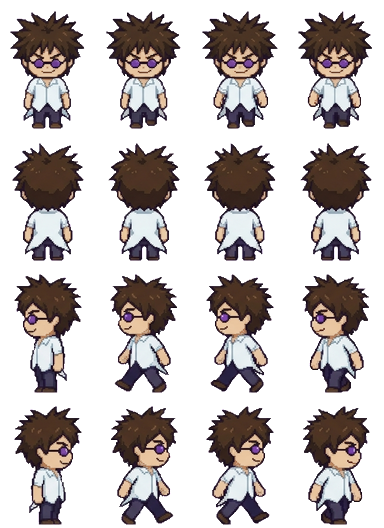
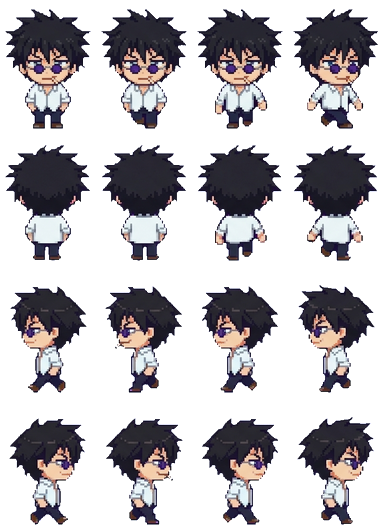
Redraw Midou Ban in the shared art style
Claude-Session: https://claude.ai/code/session_01KaPsBYLrtbRfMYNG2xeBCK

diff --git a/docs/app.js b/docs/app.js
@@ -75,7 +75,7 @@ function spr(cat, k, col, sc) {
   return `<div class="clip" style="width:${it[2] * sc}px;height:${it[3] * sc}px;POS"><img class="px" src="assets/decor/${cat}.png" alt="" style="width:${S.sw * sc}px;height:${S.sh * sc}px;margin-left:${-col * S.cw * sc}px;margin-top:${-i * S.ch * sc}px"></div>`;
 }
 const icon = (k, sz) => `<span class="itm" style="width:${sz}px;height:${sz}px"><img class="px" src="assets/ui/items.png" alt="" style="width:${IT.length * sz}px;height:${sz}px;margin-left:${-ITM[k].i * sz}px"></span>`;
-const face = (id, w) => { const s = w / 96; return `<img class="px" src="assets/ch/${id}.webp?v=50" alt="" style="position:absolute;width:${384 * s}px;height:${528 * s}px;left:${-(96 * s - w) / 2}px;top:0;max-width:none">`; };
+const face = (id, w) => { const s = w / 96; return `<img class="px" src="assets/ch/${id}.webp?v=51" alt="" style="position:absolute;width:${384 * s}px;height:${528 * s}px;left:${-(96 * s - w) / 2}px;top:0;max-width:none">`; };
 
 // ---------- 저장 ----------
 let fb = null, user = null, S = null, saveT = null;
@@ -143,7 +143,7 @@ function sleepHTML(id, r, dy) {
   const pos = r.a && r.a[0] === 'bed' ? 'left:3%;bottom:20%' : r.b && r.b[0] === 'bed' ? 'right:3%;bottom:20%' : 'left:calc(50% - 44px);bottom:6%';
   const s = 36 / 96;
   return `<div style="position:absolute;width:88px;height:56px;${pos};z-index:${dy ? 4 : 5};${dy ? `transform:translate(12px,${dy}px)` : ''}"><div style="position:absolute;inset:0;filter:brightness(.22)">
-    <div style="position:absolute;left:11px;top:1px;width:36px;height:50px;overflow:hidden;transform:rotate(-90deg)"><img class="px" src="assets/ch/${id}.webp?v=50" alt="" style="width:${384 * s}px;height:${528 * s}px;max-width:none;margin-top:${-132 * s}px"></div>
+    <div style="position:absolute;left:11px;top:1px;width:36px;height:50px;overflow:hidden;transform:rotate(-90deg)"><img class="px" src="assets/ch/${id}.webp?v=51" alt="" style="width:${384 * s}px;height:${528 * s}px;max-width:none;margin-top:${-132 * s}px"></div>
     <div style="position:absolute;left:19px;top:19px;width:67px;height:29px;border:2px solid var(--ink);border-radius:8px 6px 4px 4px;background:#8ccff5;background-image:repeating-linear-gradient(90deg,transparent 0 10px,rgba(255,255,255,.5) 10px 13px)"></div></div>
     ${dy ? '' : '<span class="emo" style="left:8px;top:-22px;color:#5b6bd6">Z z z</span>'}</div>`;
 }
@@ -153,8 +153,8 @@ function roomHTML(id, o, scale) {
     <div class="floor" style="background-color:${PAL[r.fc][1]};background-image:${tileUrl('floor', r.fl)}"></div>
     ${slot('deco', r.dc, 'left:6%;top:6%')}${slot('furn', r.a, 'left:3%;bottom:20%')}${slot('furn', r.b, 'right:3%;bottom:20%')}${slot('prop', r.pr, 'left:28%;bottom:4%;z-index:2')}
     ${id && o.sleeping && g ? sleepHTML(g, r, -16) : ''}${id && o.sleeping ? sleepHTML(id, r) : ''}${id && o.job ? `<div style="position:absolute;left:50%;top:38%;transform:translateX(-50%);z-index:5;background:#fff;border:3px solid var(--ink);border-radius:10px;padding:6px 10px;font-size:11px;text-align:center;line-height:1.5"><img src="assets/ui/ic_job.png" alt="" style="width:18px;vertical-align:-4px"> ${WORK[id] ? WORK[id][1] : esc(JOB_NAME[id]) + ' 알바 중'}${g ? `<br><small>${esc(nameOf(g))}도 같이</small>` : ''}<br><b id="jobleft">${timeLeft(o.job.until)}</b></div>` : ''}
-    ${id ? `<div class="shadow" id="shd" ${o.sleeping || o.job ? 'style="display:none"' : ''}></div><div class="man" id="man" ${o.sleeping || o.job ? 'style="display:none"' : ''}><img class="px" src="assets/ch/${id}.webp?v=50" alt="${esc(nameOf(id))}"></div><span class="emo" id="emo" hidden></span><span class="mumble" id="mum" hidden></span>` : ''}
-    ${g ? `<div class="shadow" id="gshd" ${hideG}></div><div class="man" id="gman" ${hideG}><img class="px" src="assets/ch/${g}.webp?v=50" alt="${esc(nameOf(g))}"></div><span class="emo" id="gemo" hidden></span><span class="mumble gmum" id="gmum" hidden></span>` : ''}
+    ${id ? `<div class="shadow" id="shd" ${o.sleeping || o.job ? 'style="display:none"' : ''}></div><div class="man" id="man" ${o.sleeping || o.job ? 'style="display:none"' : ''}><img class="px" src="assets/ch/${id}.webp?v=51" alt="${esc(nameOf(id))}"></div><span class="emo" id="emo" hidden></span><span class="mumble" id="mum" hidden></span>` : ''}
+    ${g ? `<div class="shadow" id="gshd" ${hideG}></div><div class="man" id="gman" ${hideG}><img class="px" src="assets/ch/${g}.webp?v=51" alt="${esc(nameOf(g))}"></div><span class="emo" id="gemo" hidden></span><span class="mumble gmum" id="gmum" hidden></span>` : ''}
     ${o.sleeping ? `<div class="night"></div><div class="sleepleft">쿨쿨 · 일어나기까지 <b id="sleepleft">${timeLeft(wakeAt(o)).replace(' 남음', '')}</b></div>` : ''}
   </div>`;
 }
@@ -167,7 +167,7 @@ function meterHTML(o) {
 const ic = (act, img, label, pressed) => `<button class="ic" data-act="${act}" ${pressed ? 'aria-pressed="true"' : ''}><img src="assets/ui/ic_${img}.png?v=2" alt="">${label}</button>`;
 
 let dropStyle = null; const cheat = {};
-const APP_V = 122, COUPONS = { NINOGUYA: 3000 };
+const APP_V = 123, COUPONS = { NINOGUYA: 3000 };
 // 쿠폰 입력 정리: 한글 자판 상태로 친 글자(ㅜㅑㅜㅐ혀ㅛㅁ)도 영어 자판 글자로 바꾸고, 대소문자·띄어쓰기·마침표는 무시해요
 const KEY = { ㄱ: 'r', ㄲ: 'R', ㄴ: 's', ㄷ: 'e', ㄸ: 'E', ㄹ: 'f', ㅁ: 'a', ㅂ: 'q', ㅃ: 'Q', ㅅ: 't', ㅆ: 'T', ㅇ: 'd', ㅈ: 'w', ㅉ: 'W', ㅊ: 'c', ㅋ: 'z', ㅌ: 'x', ㅍ: 'v', ㅎ: 'g',
   ㅏ: 'k', ㅐ: 'o', ㅑ: 'i', ㅒ: 'O', ㅓ: 'j', ㅔ: 'p', ㅕ: 'u', ㅖ: 'P', ㅗ: 'h', ㅘ: 'hk', ㅙ: 'ho', ㅚ: 'hl', ㅛ: 'y', ㅜ: 'n', ㅝ: 'nj', ㅞ: 'np', ㅟ: 'nl', ㅠ: 'b', ㅡ: 'm', ㅢ: 'ml', ㅣ: 'l',
@@ -407,7 +407,7 @@ function startTrip(k) {
   if (tg) lines[1] = `${nameOf(tg)}: ${withHim(sub(pick(GLX(tg).trip), o, c.n), tg)}`;
   const n = (FR[id] || [4, 4, 4, 4])[3], el = document.createElement('div'); el.className = 'tripview';
   el.innerHTML = `<div class="tsay"> </div><div class="tstage" style="background-image:url(assets/travel/${k}.png?v=2)"><div class="tplace">${esc(c.n)}</div>
-    <div class="twalker"><img class="px" src="assets/ch/${id}.webp?v=50" alt=""></div>${tg ? `<div class="twalker tgirl"><img class="px" src="assets/ch/${tg}.webp?v=50" alt=""></div>` : ''}<span class="emo tjoy">♪</span></div>
+    <div class="twalker"><img class="px" src="assets/ch/${id}.webp?v=51" alt=""></div>${tg ? `<div class="twalker tgirl"><img class="px" src="assets/ch/${tg}.webp?v=51" alt=""></div>` : ''}<span class="emo tjoy">♪</span></div>
     <div class="tbar"><i></i></div><button class="btn white tskip" data-tskip="1">바로 돌아오기</button>`;
   document.body.appendChild(el);
   const gimg = el.querySelector('.tgirl img'), gn = tg ? (FR[tg] || [4, 4, 4, 4])[3] : 1;
@@ -636,7 +636,7 @@ setInterval(() => { if (S && user) { tickTime(); save(); } }, 60000);
     if (nv > APP_V && !location.search.includes('u=' + nv)) { location.replace(location.pathname + '?u=' + nv); return; }
   } catch { }
   app.innerHTML = '<div class="start"><div class="egg"><div class="scr"></div></div><div class="note">불러오는 중....</div></div>';
-  const [c, t, f, it, mu, ct, tv, gl, sts] = await Promise.all(['data/chars.json', 'data/talk.json', 'data/frames.json', 'data/items.json', 'data/mumble.json', 'data/countries.json', 'data/travel.json', 'data/girls.json', 'data/sets.json'].map(u => fetch(u + '?v=122').then(r => r.ok ? r.json() : {})));
+  const [c, t, f, it, mu, ct, tv, gl, sts] = await Promise.all(['data/chars.json', 'data/talk.json', 'data/frames.json', 'data/items.json', 'data/mumble.json', 'data/countries.json', 'data/travel.json', 'data/girls.json', 'data/sets.json'].map(u => fetch(u + '?v=123').then(r => r.ok ? r.json() : {})));
   CH = c; CHM = Object.fromEntries(c.map(x => [x.id, x])); TALK = t; FR = f; IT = it; ITM = Object.fromEntries(it.map(x => [x.k, x])); MUM = mu; CTRY = ct; TRV = tv; GL = Array.isArray(gl) ? gl : []; SETS = Array.isArray(sts) ? sts : []; GLM = Object.fromEntries(GL.map(x => [x.id, x]));
   try { await initFirebase(); } catch (e) { console.warn('Firebase 연결 실패, 기기 저장으로', e); fb = null; }
   if (fb) {

diff --git a/docs/index.html b/docs/index.html
@@ -18,6 +18,6 @@
 <main id="app" aria-live="polite"></main>
 <div id="toast" role="status" hidden></div>
 <script src="firebase-config.js?v=3"></script>
-<script type="module" src="app.js?v=122"></script>
+<script type="module" src="app.js?v=123"></script>
 </body>
 </html>
